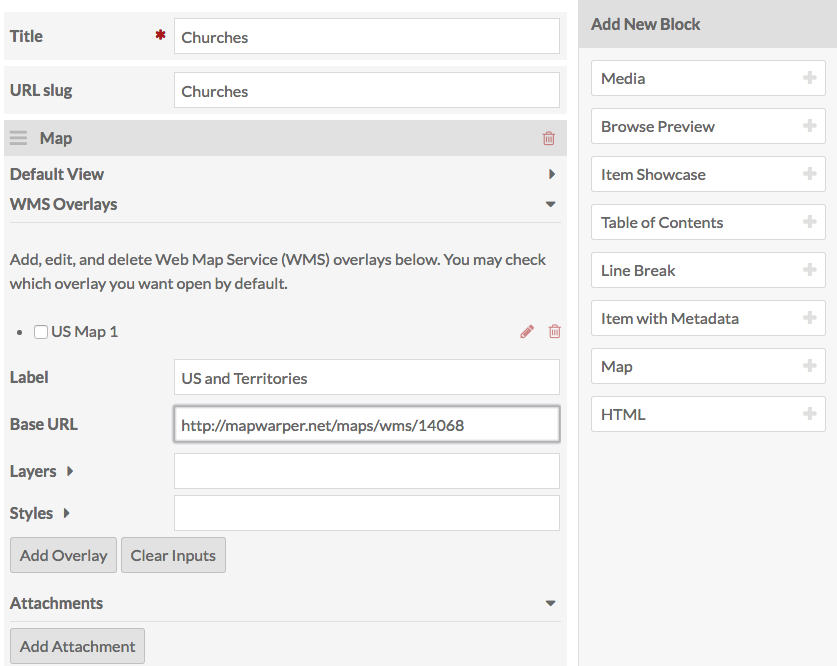
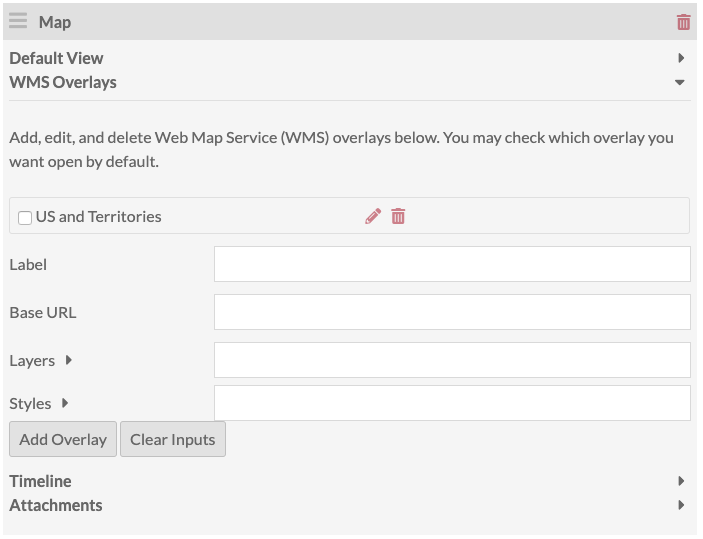
formatting

diff --git a/docs/modules/mapping.md b/docs/modules/mapping.md
@@ -49,8 +49,6 @@ Select an existing marker then click the trash can icon to delete the marker.
 Click the magnifying glass icon to open a search address field.
 ![Screenshot of the map with Search bar selected.](../modules/modulesfiles/Mapping_Item_Search.png)
 
-
-
 ### Modifying the appearance of a Marker
 The appearance of existing markers may be modified. Click the Marker to open a dialog window. 
 * Enter descriptive text in the text field. 
@@ -68,11 +66,11 @@ To add a map to a new or existing page, click to edit the page. On the right, un
 ### Default View 
  Small white buttons on the left of the map interface set the default view for the map: 
  
- * _Zoom in_: The small white square with a black plus sign. Each click zooms in one step.
- * _Zoom out_: The small white square with black minus sign. Each click zooms out one step.
- * _Set the current view as default view_: The small white square with a target or crosshair symbol. The map will default to a global view. Click to set the current view as the default view.
- * _Go to current default view_: The small black square with a black box around a dot. This option is only available after a default view has been set. Click to pan and zoom map to the selected view.
- * _Clear the default center and zoom level_: The small white square with a black "X". Click to clear pan and zoom preferences and return to the initial global view.
+ * *Zoom in:* The small white square with a black plus sign. Each click zooms in one step.
+ * *Zoom out:* The small white square with black minus sign. Each click zooms out one step.
+ * *Set the current view as default view:* The small white square with a target or crosshair symbol. The map will default to a global view. Click to set the current view as the default view.
+ * *Go to current default view:* The small black square with a black box around a dot. This option is only available after a default view has been set. Click to pan and zoom map to the selected view.
+ * *Clear the default center and zoom level:* The small white square with a black "X". Click to clear pan and zoom preferences and return to the initial global view.
 
 ![Screenshot of the Default view includes a map with the white buttons described.](../modules/modulesfiles/Mapping_Page_Default.png)
 
@@ -80,26 +78,33 @@ To add a map to a new or existing page, click to edit the page. On the right, un
 
  Add, edit, and delete Web Map Service (WMS) overlays.
  
- * _Label_: Create a unique, descriptive label for the map overlay. This will be visible to visitors and should be used to differentiate between overlays. 
- * _Base URL_: Add a URL to the WMS map.
- * _Layers_:
- * _Styles_:
- * Click Add Overlay to create the overlay. Click _Clear Inputs_ to clear each of the fields. Multiple overlays can be added. Choose a default overlay by checking the box next to it. Edit or delete an overlay click on the red pencil edit button, or click the red trashcan icon to delete.
+ * *Label:* Create a unique, descriptive label for the map overlay. This will be visible to visitors and should be used to differentiate between overlays. 
+ * *Base URL:* Add a URL to the WMS map.
+ * *Layers:*
+ * *Styles:*
+ * Click Add Overlay to create the overlay. Click _Clear Inputs_ to clear each of the fields. Multiple overlays can be added.
+ * Choose a default overlay by checking the box next to it. Edit an overlay by clicking on on the red pencil edit button, or click the red trashcan icon to delete the overlay.
+
 ![Screenshot of the WMS Overlays with fields and buttons described.](../modules/modulesfiles/Mapping_Page_Overlays.png)
 
 ### Timeline
+Timeline adds a timeline display to the left of the map view. Note that this feature requires the NumericDataTypes module and at least one item that has a Timestamp or Interval value applied through its resource template. 
+
+- Title headline
+- Title text
+- Fly to
+- Property
 
 
 ### Attachments
 
 Markers are added to the map using _Items_.
 
-* After Items have been mapped, click _Add Attachment_  (1) to select them from a list on the right (2). Note: This list will only be populated by items that have been mapped.
+* Click _Add Attachment_  (1) to select them from a list on the right (2). Note: This list will only be populated by items that have at least one location added to them (when editing the item).
 * Clicking an item adds it to a list in the Attachments pane (3).
 * Click and drag items in this list to reorder them. 
 * Delete items by clicking the red trashcan. 
 
-After Items have been mapped, click _Add Attachment_  (1) to select them from a list on the right (2). Note: This list will only be populated by items that have been mapped. Clicking an item adds it to a list in the Attachments pane (3).
 ![Screenshot of the map with Add Attachment selected. On the right a list of items.](../modules/modulesfiles/Mapping_Page_Attachments.png)
 
 ## Troubleshooting
